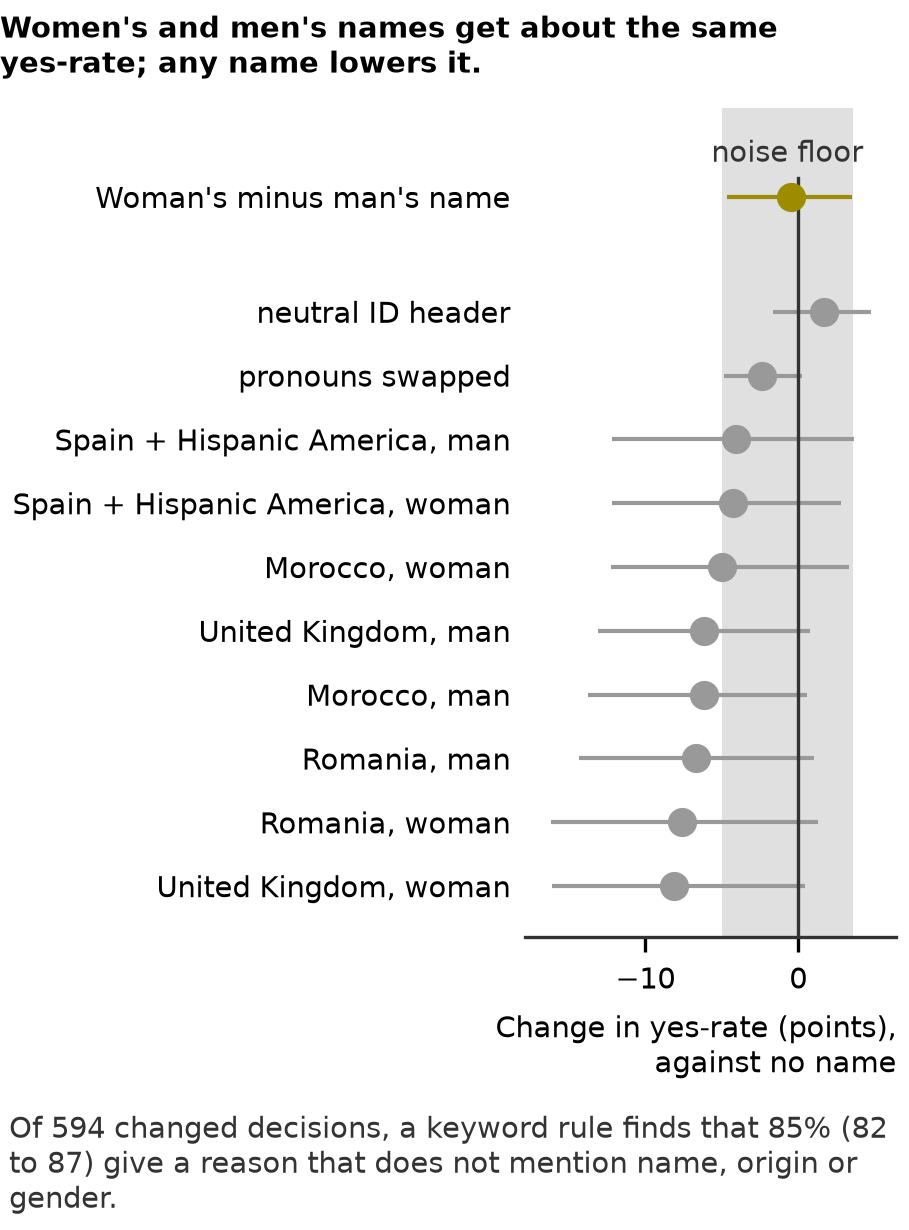
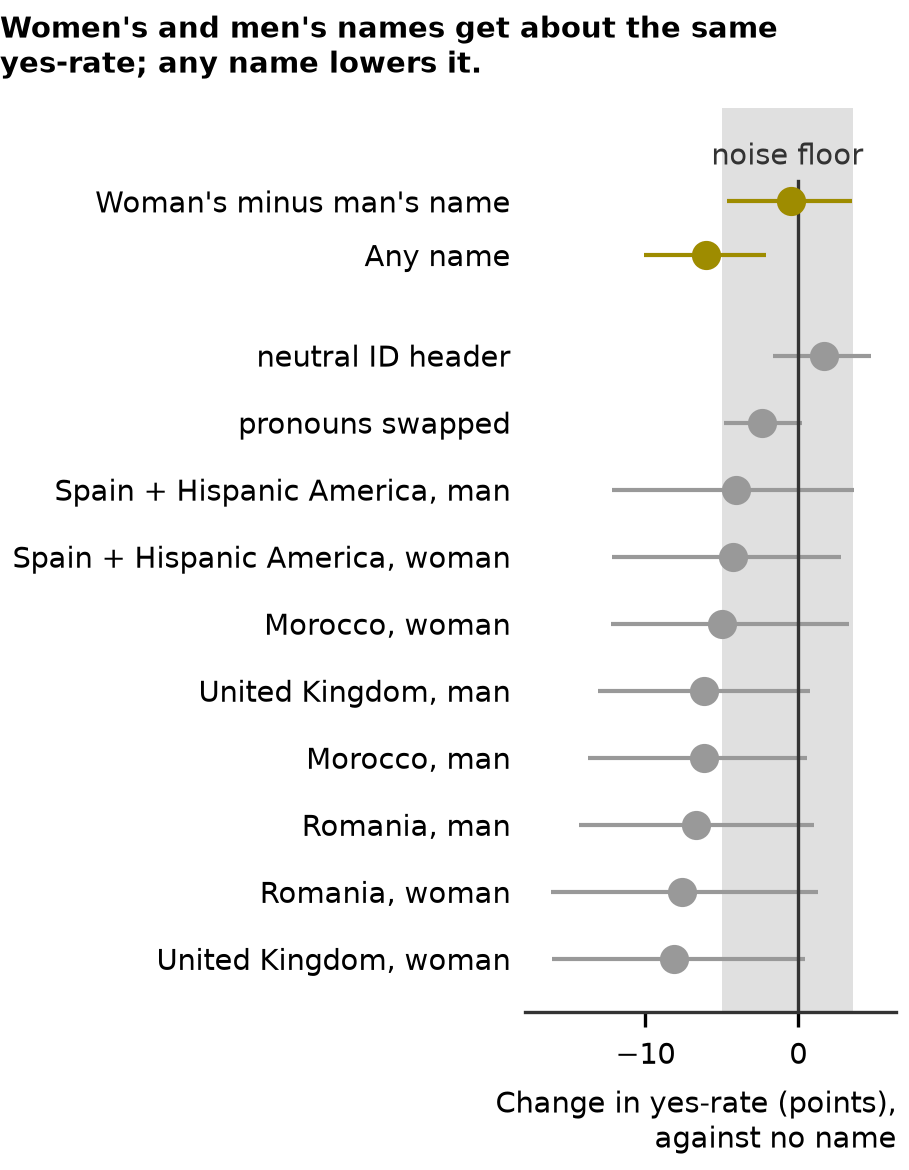
F8: any-name row, no text block inside the figure

diff --git a/scripts/figure_f8.py b/scripts/figure_f8.py
@@ -3,10 +3,11 @@
 Reads `results/llm_audit.json`. Each dot is the change in the yes-rate of qualified candidates
 from the arm with no header, in points, with its 95% interval (bootstrap over bios and first
 names). The grey band is the range of changes that nothing meaningful produces: an identical
-rerun and a whitespace edit. The top dot, in the highlight colour, is the primary contrast:
-women's names minus men's names. The note under the axis gives the share of decision changes
-whose reason does not mention name, origin, nationality or gender, or says the decision barely
-depends on the name when no name arm changes decisions more than the noise does.
+rerun and a whitespace edit. The two top dots, in the highlight colour, are the primary contrast
+(women's names minus men's names) and the pooled change of any name against none. Origin groups
+are shown per gender, because `results/llm_audit.json` holds no pooled-gender statistic for them.
+The share of decision changes whose reason does not mention name, origin or gender is in the
+report text, not in the figure.
 """
 
 import json
@@ -17,8 +18,7 @@ from hiring_bias_xai.config import RESULTS_DIR
 
 FIGURE_NAME = "f8_llm_screener"
 DARK = "#333333"
-HEIGHT_INCHES = 4.1
-NOTE_SHARE = 0.11  # share of the figure height kept free under the axis label for the note
+HEIGHT_INCHES = 3.9
 
 
 def _points(stat: dict) -> tuple[float, float, float]:
@@ -52,26 +52,9 @@ def _label(arm: str) -> str:
     return f"{group}, {'woman' if gender == 'female' else 'man'}"
 
 
-def _note(report: dict) -> str:
-    stated = report["rationalization"]["beyond_noise"]
-    if stated is None:
-        return (
-            "No name arm changes decisions more than the noise does: "
-            "the decision barely depends on the name."
-        )
-    share = stated["share_no_mention"]
-    low, high = 100 * share["ci_low"], 100 * share["ci_high"]
-    return (
-        f"Of {stated['n_flips']} changed decisions, a keyword rule finds that "
-        f"{100 * share['value']:.0f}% ({low:.0f} to {high:.0f}) give a reason that does not "
-        "mention name, origin or gender."
-    )
-
-
 def build(report: dict):
     fig, ax = plotting.new_figure(HEIGHT_INCHES)
     fig.suptitle(title(report), fontweight="bold", wrap=True, x=0, ha="left")
-    fig.get_layout_engine().set(rect=(0, NOTE_SHARE, 1, 1 - NOTE_SHARE))  # the note goes below
     arms = {
         key.split("|", 1)[1]: _points(stat)
         for key, stat in report["statistics"].items()
@@ -81,8 +64,11 @@ def build(report: dict):
     floor = [_points(report["noise_floor"][part]["tpr_diff"]) for part in ("rerun", "edit")]
     band_low, band_high = min(f[1] for f in floor), max(f[2] for f in floor)
     ax.axvspan(band_low, band_high, color=plotting.NEUTRAL, alpha=0.3, lw=0)
-    primary_y = len(ordered) + 0.8
+    pooled_y = len(ordered) + 0.5
+    primary_y = pooled_y + 0.8
     rows = [(y, _label(arm), stat, plotting.NEUTRAL) for y, (arm, stat) in enumerate(ordered)]
+    pooled = _points(report["statistics"]["pooled_names_vs_none"])
+    rows.append((pooled_y, "Any name", pooled, plotting.HIGHLIGHT))
     primary = _points(report["statistics"]["primary"])
     rows.append((primary_y, "Woman's minus man's name", primary, plotting.HIGHLIGHT))
     for y, _, (value, low, high), colour in rows:
@@ -99,7 +85,6 @@ def build(report: dict):
     ax.axvline(
         0, ymax=(primary_y + 0.3 - bottom) / (top - bottom), color=DARK, lw=0.8
     )  # stops under the label
-    fig.text(0.01, 0.01, _note(report), color=DARK, va="bottom", ha="left", wrap=True)
     ax.spines["left"].set_visible(False)
     ax.tick_params(axis="y", length=0)
     ax.set_xlabel("Change in yes-rate (points),\nagainst no name", x=1, ha="right")
